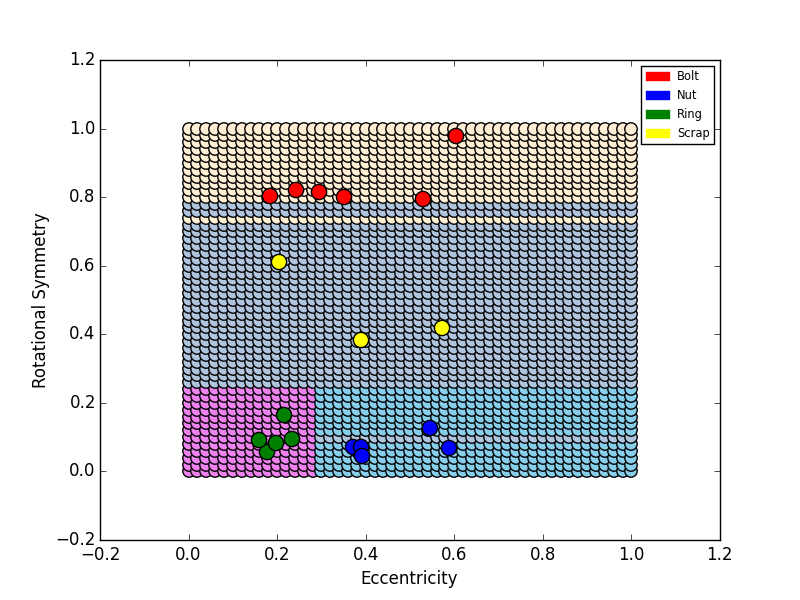
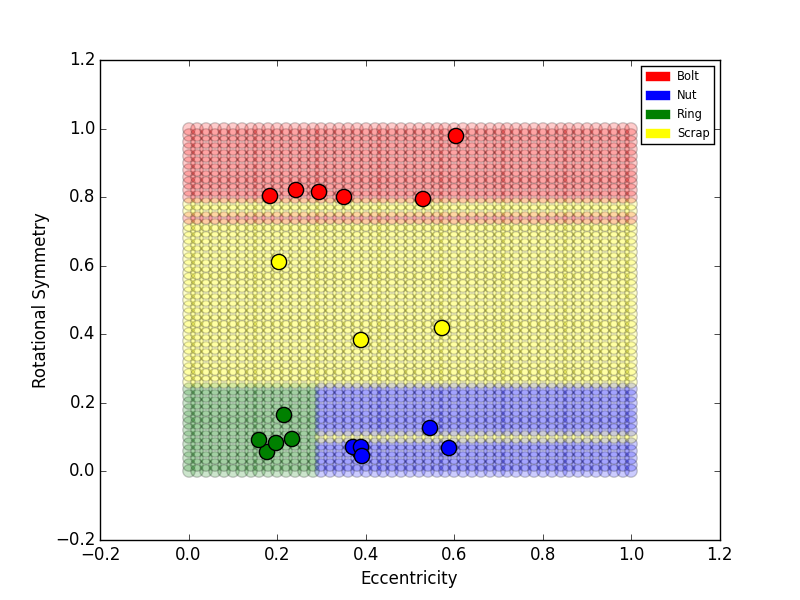
changes

diff --git a/trainDT.py b/trainDT.py
@@ -175,9 +175,9 @@ class Node:
         region_color = ['#FFEFD5','#87CEEB','#EE82EE','#B0C4DE']
         object_color=['red','blue','green','yellow']
         for p in range(len(simulated_data)):
-            ax.scatter(float(simulated_data[p][0]),float(simulated_data[p][1]),c=region_color[int(op[p])-1],s=80)
+            ax.scatter(float(simulated_data[p][0]),float(simulated_data[p][1]),c=object_color[int(op[p])-1],s=80,alpha=0.2)
         for p in range(len(list)):
-            ax.scatter(float(list[p][0]),float(list[p][1]),c=object_color[int(classified_values[p])-1],s=120)
+            ax.scatter(float(list[p][0]),float(list[p][1]),c=object_color[int(classified_values[p])-1],s=120,alpha=1)
         red_patch = patches.Patch(color='red', label='Bolt')
         lime_patch = patches.Patch(color='blue', label='Nut')
         cyan_patch = patches.Patch(color='green', label='Ring')

diff --git a/executeDT.py b/executeDT.py
@@ -93,8 +93,14 @@ def testStatistics(list,tree,name):
     print('Profit obtained: %.2f$'%(profit/100))
     print('Confusion matrix:')
         # print(confusion_matrix)
-    for row in confusion_matrix:
-        print(row)
+    names=["Bolts","Nuts","Rings","Scrap"]
+    print()
+    for row in range(len(confusion_matrix)):
+        print(names[row],end="  ")
+        element=confusion_matrix[row]
+        for each in element:
+            print(each,sep="  ",end="")
+        print()
     # Plot the data
     tree.plotPoints(list,classified_values,name)
 

diff --git a/README.md b/README.md
@@ -22,3 +22,30 @@ LEARNING_RATE = 0.1
 Output: 
 
 
+2. Decision Tree
+
+2.1 Training
+Running command: python3 trainDT.py train_data.csv
+with:
+    -trainDT.py : name of main file
+    -train_data.csv: training data
+
+Output :
+
+Prints the following summary and plots the plot for region splitting for decision and pruned decision tree.
+    Summary for Tree
+    Number of Nodes
+    Number of Internal Nodes
+    Number of Leaf Nodes
+    Max depth of root-to-leaf path
+    Min depth of root-to-leaf path
+    Average depth of root-to-leaf path
+
+2.2 Testing
+Running command: python3 executeDT.py test_data.csv
+with:
+    -executeDT.py : name of main file
+    -test_data.csv: testing data
+
+Output:
+
